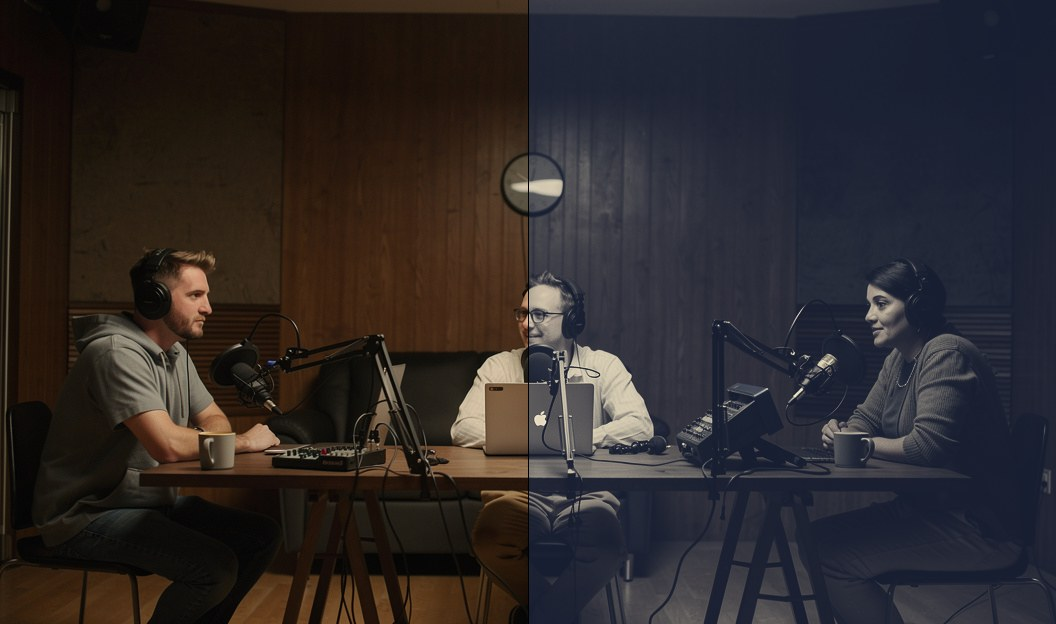
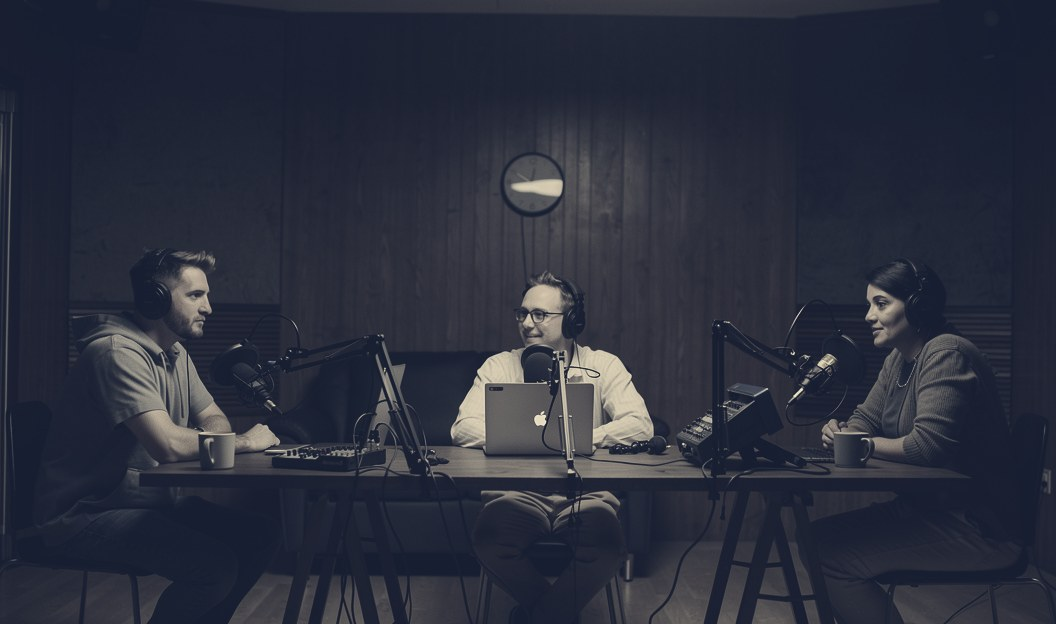
film-lab 1.1.1: full-frame demo gallery
Replace the before/after split images with one full-frame render per
look, and lead the gallery with the untouched source frame so every
look reads against it. Splits looked broken at thumbnail size.

diff --git a/plugins/film-lab/src/manifest.ts b/plugins/film-lab/src/manifest.ts
@@ -19,7 +19,7 @@ export const manifest = defineManifest({
   version: 1,
   id: 'so.corte.filmlab',
   name: 'Film Lab',
-  pluginVersion: '1.1.0',
+  pluginVersion: '1.1.1',
   description:
     'Thirteen cinematic looks as real-time shader effects: teal & orange, bleach bypass, halation glow, VHS wear, day-for-night, film grain, cross-process, faded matte, cool noir, golden hour, duotone, vibrance and a one-tap cinematic. Each has one to three sliders and blends back to your original, so the defaults are a starting point rather than a maximum.',
   about: `Film Lab is a grade shelf. Thirteen looks pulled from the way film actually behaves — silver retention, halation off the red layer, the midtone bell of emulsion grain — built as single-pass shaders that run live on the timeline.
@@ -31,15 +31,22 @@ Looks stack. Golden Hour under Halation gives you a warm flare; Faded Matte unde
 A note on grain: Corte binds no time uniform to plugin shaders, so Film Lab's grain is frame-stable rather than crawling. That is the right call for a print look and the wrong one for TV static — it is a deliberate limit, not an oversight.`,
   iconUrl: 'https://raw.githubusercontent.com/eli-made/corte-plugins-marketplace/main/plugins/film-lab/assets/icon.png',
   screenshots: [
-    // before/after splits rendered with these exact shaders at manifest defaults
+    // Full-frame renders from these exact shaders at manifest defaults; the
+    // first image is the untouched source so every look reads against it.
+    'https://raw.githubusercontent.com/eli-made/corte-plugins-marketplace/main/plugins/film-lab/assets/demo/original.jpg',
     'https://raw.githubusercontent.com/eli-made/corte-plugins-marketplace/main/plugins/film-lab/assets/demo/cinematic.jpg',
     'https://raw.githubusercontent.com/eli-made/corte-plugins-marketplace/main/plugins/film-lab/assets/demo/teal-orange.jpg',
     'https://raw.githubusercontent.com/eli-made/corte-plugins-marketplace/main/plugins/film-lab/assets/demo/duotone.jpg',
-    'https://raw.githubusercontent.com/eli-made/corte-plugins-marketplace/main/plugins/film-lab/assets/demo/day-for-night.jpg',
     'https://raw.githubusercontent.com/eli-made/corte-plugins-marketplace/main/plugins/film-lab/assets/demo/golden-hour.jpg',
+    'https://raw.githubusercontent.com/eli-made/corte-plugins-marketplace/main/plugins/film-lab/assets/demo/day-for-night.jpg',
     'https://raw.githubusercontent.com/eli-made/corte-plugins-marketplace/main/plugins/film-lab/assets/demo/cool-noir.jpg',
-    'https://raw.githubusercontent.com/eli-made/corte-plugins-marketplace/main/plugins/film-lab/assets/shelf.png',
-    'https://raw.githubusercontent.com/eli-made/corte-plugins-marketplace/main/plugins/film-lab/assets/teal-orange.png',
+    'https://raw.githubusercontent.com/eli-made/corte-plugins-marketplace/main/plugins/film-lab/assets/demo/vibrance.jpg',
+    'https://raw.githubusercontent.com/eli-made/corte-plugins-marketplace/main/plugins/film-lab/assets/demo/cross-process.jpg',
+    'https://raw.githubusercontent.com/eli-made/corte-plugins-marketplace/main/plugins/film-lab/assets/demo/bleach-bypass.jpg',
+    'https://raw.githubusercontent.com/eli-made/corte-plugins-marketplace/main/plugins/film-lab/assets/demo/faded-matte.jpg',
+    'https://raw.githubusercontent.com/eli-made/corte-plugins-marketplace/main/plugins/film-lab/assets/demo/halation.jpg',
+    'https://raw.githubusercontent.com/eli-made/corte-plugins-marketplace/main/plugins/film-lab/assets/demo/film-grain.jpg',
+    'https://raw.githubusercontent.com/eli-made/corte-plugins-marketplace/main/plugins/film-lab/assets/demo/vhs-wear.jpg',
   ],
   tags: ['color', 'grading', 'film', 'looks', 'shaders', 'retro'],
   contributions: {

diff --git a/plugins/film-lab/README.md b/plugins/film-lab/README.md
@@ -37,10 +37,11 @@ percentage of the frame and why the grain is frame-stable rather than crawling.
 ## Assets
 Manifest asset URLs (icon, screenshots, media) are served from the plugin's own `assets/` directory via raw.githubusercontent.com — generated in-house. Third-party authors can use any https URL.
 
-`assets/demo/` holds one before/after split per look. They are honest demos:
-each right half was rendered by that look's actual GLSL from `src/shaders.ts`
-at the manifest's default parameter values (WebGL2, same host contract as the
-editor), not by an approximation in an image tool.
+`assets/demo/` holds one full-frame render per look plus the untouched source
+frame (`original.jpg`, listed first so every look reads against it). They are
+honest demos: each was rendered by that look's actual GLSL from
+`src/shaders.ts` at the manifest's default parameter values (WebGL2, same host
+contract as the editor), not by an approximation in an image tool.
 
 Build with `npm run build` (from this directory or via the repo root) — emits
 `dist/manifest.json` and fails if any contribution id is not namespaced under
